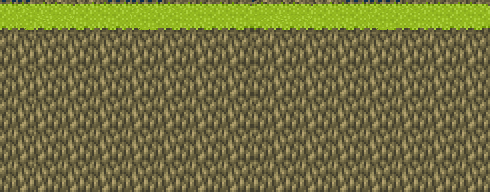
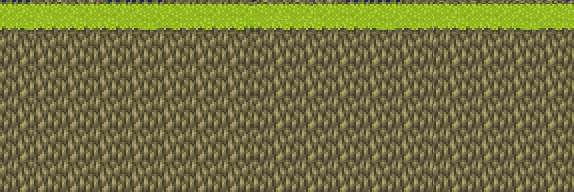
ゲーム画面の画像を変更

diff --git a/Scene_Game.cpp b/Scene_Game.cpp
@@ -16,7 +16,8 @@ void Scene_Game::Initialize()
 	player = new PLAYER();
 	player->PlayerIni();
 	map = Map::GetInstance();
-	background = LoadGraph("img/backimage.png");
+	background = LoadGraph("img/background.png");
+	h_ground = LoadGraph("img/ground.png");
 	leftX = 0;
 }
 void Scene_Game::Update()
@@ -79,4 +80,6 @@ void Scene_Game::backGroundDraw()
 {
 	DrawGraph(0-leftX, 0, background, FALSE);
 	DrawGraph(500 - leftX, 0, background, FALSE);
+	DrawGraph(0-leftX, 320, h_ground, false);
+	DrawGraph(500 - leftX, 320, h_ground, false);
 }

diff --git a/Scene_Game.h b/Scene_Game.h
@@ -13,10 +13,9 @@ public:
 	void Initialize() override;
 	void Update() override;
 	void Draw() override;
-public:
 	void backGroundDraw();
 	int leftX;
 private:
 	int background;
-	
+	int h_ground;
 };
